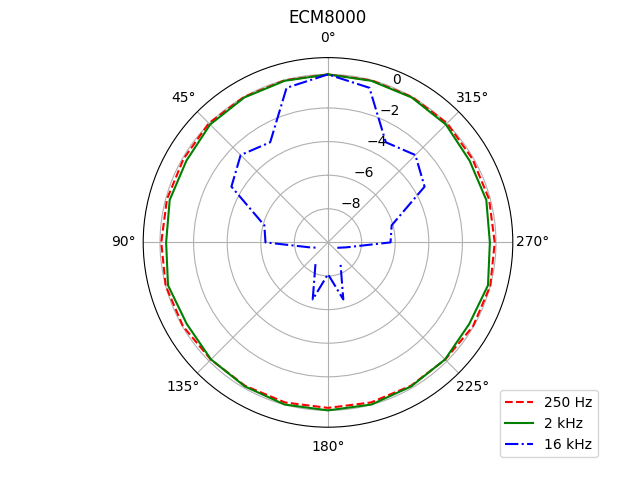
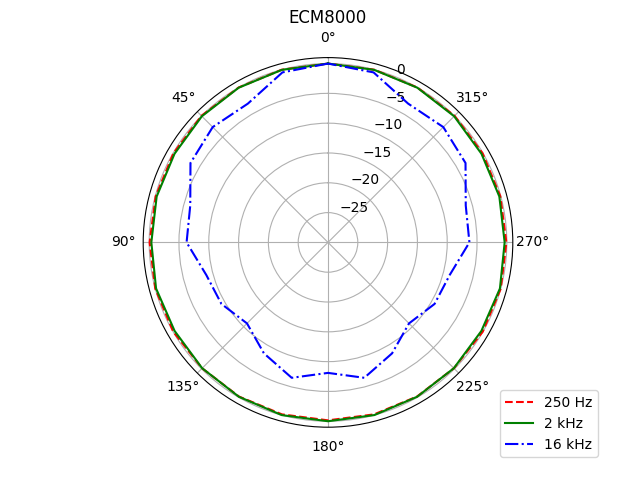
Distintas mediciones y graficos de patron polar para elegir

Changed region(s): [[0.2188, 0.125, 0.8125, 0.9062], [0.3438, 0.4688, 0.375, 0.5312], [0.375, 0.5938, 0.4062, 0.625]]

diff --git a/patron_polar.py b/patron_polar.py
@@ -57,10 +57,11 @@ def main():
     path = "datos/patron_polar"
     measure = "ECM8000_TF_0"
     tf_data = load_tf(path, measure, angles)
-    #100, 250, 500
-    #1000, 2000, 8000
-    #10000, 16000, 20000
-    frequencies = [500, 8000, 20000]
+    
+    # frequencies =   [100, 1000, 10000]
+    # frequencies = [250, 2000, 8000]
+    frequencies = [500, 8000, 16000]    
+
     magnitudes = []
     
     for freq in frequencies:
@@ -76,8 +77,8 @@ def main():
     ax.plot(angles, magnitudes[1], 'g-', label=f"{int(frequencies[1]/1000)} kHz")
     ax.plot(angles, magnitudes[2], 'b-.', label=f"{int(frequencies[2]/1000)} kHz")
     # Set the title and labels
-    ax.set_title('ECM8000')
-    ax.set_rlim(-10, 1)
+    ax.set_title(measure[:-5])
+    ax.set_rlim(-30, 1)
     ax.set_theta_offset(np.pi/2)
     ax.set_rlabel_position(-22.5)  # Move radial labels away from plotted line
     ax.grid(True)
